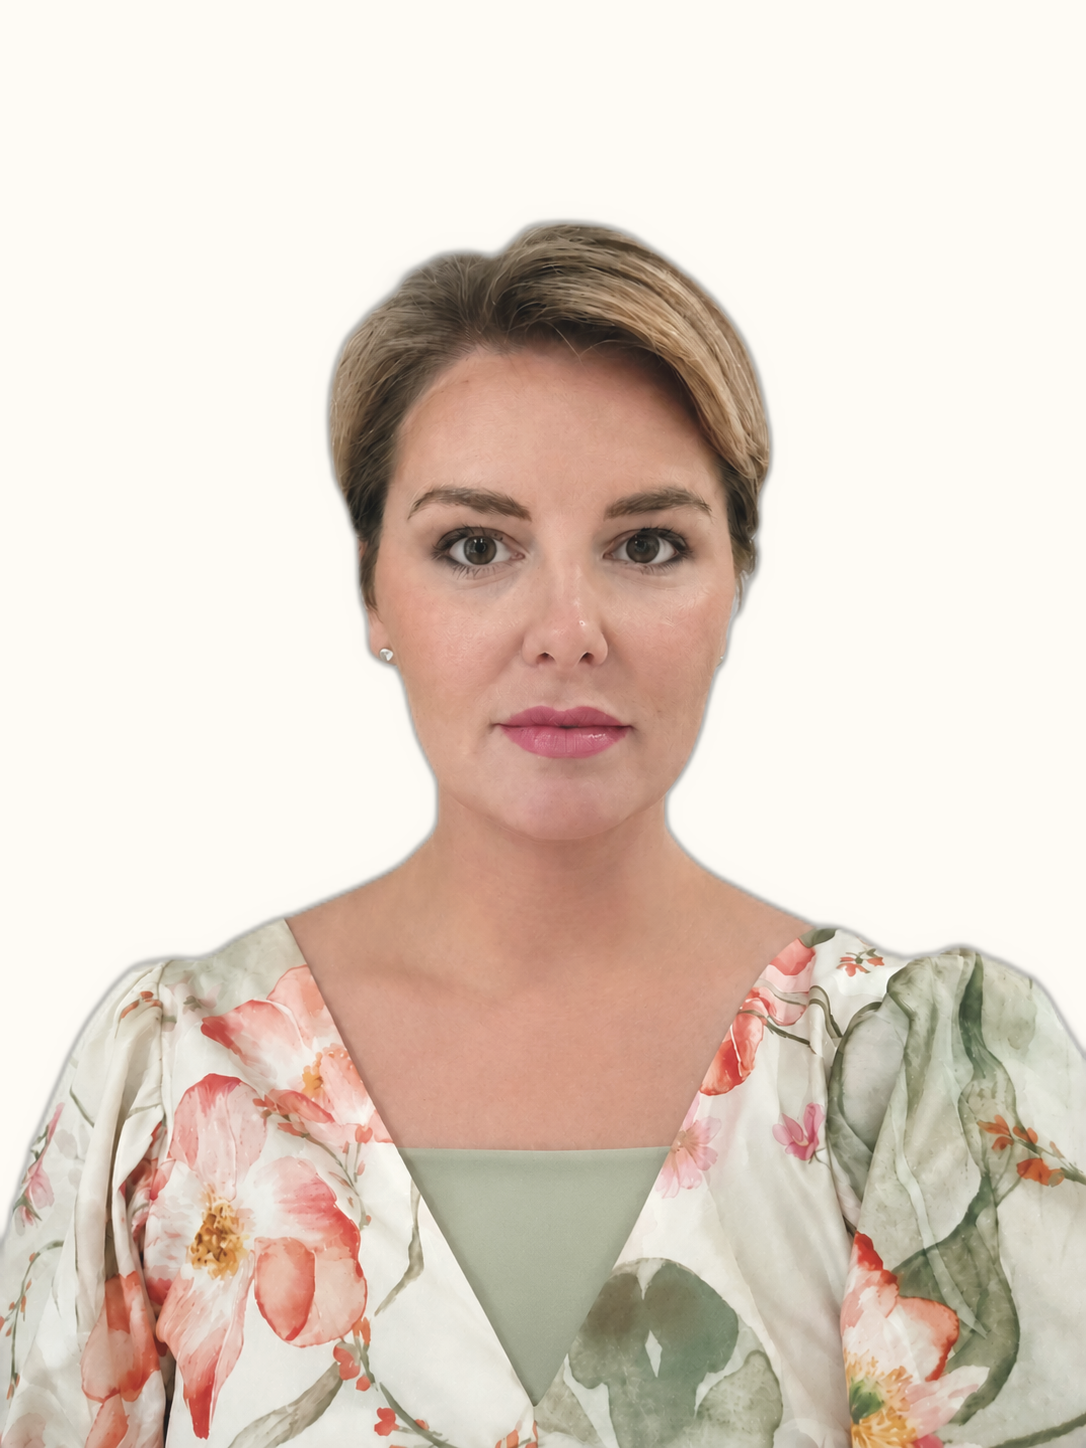
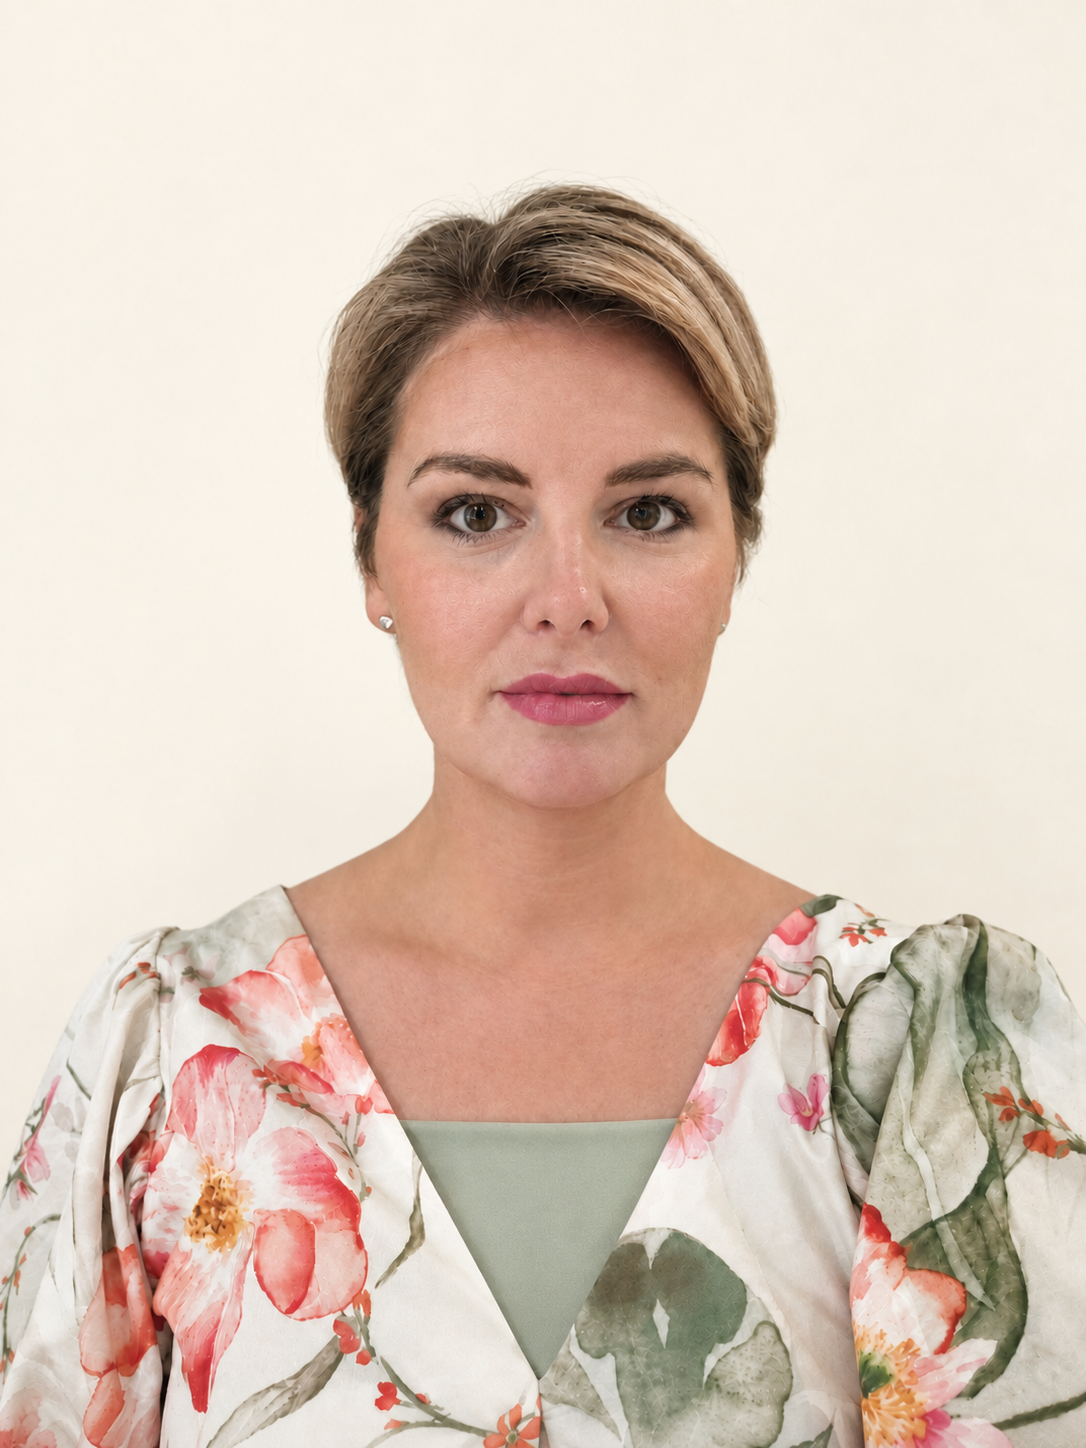
Add footer flower arrangement; fix toolkit blur veil, yellow-flower hairline, new profile photo
- Bottom decoration: forget-me-not lying sideways at the left, four blooms
  overlapping in a cluster at the right, replacing the pansy that was being
  sliced by the page edge. Extra content-pad bottom padding gives them canvas
  so they clear the footer text instead of covering it.
- content-pad gets zIndex 3: the hero's bottom blobs are zIndex 2 and extend
  past the hero by design, so they were painting their blur over the toolkit
  badges.
- flower-yellow.png carried a 2px full-height alpha strip at its left edge,
  which rotated into a diagonal hairline above the bloom. Stripped to the
  single largest connected component.
- New profile photo ships with its own cream background, superseding the
  composited veil; cache-buster bumped to v=9.

Claude-Session: https://claude.ai/code/session_01WvQFioFd8AdRyknNyCBVYC

Changed region(s): [[0.0, 0.1243, 1.0, 1.0], [0.395, 0.6526, 0.4254, 0.6837]]

diff --git a/index.html b/index.html
@@ -61,7 +61,15 @@
   }
   .hero-flower-yellow { animation: flowerSwayYellow 13s ease-in-out infinite; transform-origin: 50% 85%; }
   .hero-flower-pansy { animation: flowerSwayPansy 22s ease-in-out infinite; transform-origin: 50% 85%; }
-  .footer-flower { animation: flowerSwayFooter 24s ease-in-out infinite; transform-origin: 50% 85%; }
+  /* Shared gentle drift for the bottom blooms. Rotation is held constant via
+     --rot so only translateX animates — rotating a large shape about a near-end
+     pivot swings its far tip through an arc that reads as vertical bobbing. */
+  @keyframes bloomSway {
+    0%   { transform: translateX(-9px) rotate(var(--rot,0deg)); }
+    50%  { transform: translateX(9px) rotate(var(--rot,0deg)); }
+    100% { transform: translateX(-9px) rotate(var(--rot,0deg)); }
+  }
+  .footer-bloom { animation: bloomSway var(--dur,22s) ease-in-out infinite; transform-origin: 50% 85%; }
 
   /* Individual dandelion seeds drift independently — direction/duration set per-seed via CSS vars */
   @keyframes seedFloat {
@@ -101,7 +109,7 @@
 
   /* Mobile responsive */
   .hero-pad { /* padding moved to .hero-screen so screens can slide */ }
-  .content-pad { padding: 48px 64px 96px; }
+  .content-pad { padding: 48px 64px 250px; }
   .hero-grid {
     display: grid;
     grid-template-columns: minmax(360px, 540px) 200px minmax(360px, 1fr);
@@ -134,7 +142,7 @@
     .grid-4 { grid-template-columns: repeat(2, 1fr); }
   }
   @media (max-width: 720px) {
-    .content-pad { padding: 40px 20px 64px; }
+    .content-pad { padding: 40px 20px 150px; }
     .hero-grid { grid-template-columns: 1fr; gap: 24px; }
     .hero-photo { width: 140px !important; height: 168px !important; }
     .name-h1 { font-size: 44px !important; }
@@ -145,7 +153,9 @@
     .hero-flower-yellow { width: 130px !important; }
     .hero-flower-pansy { width: 110px !important; }
     .hero-flower-dandelion { transform: rotate(90deg) scale(0.55) !important; }
-    .footer-flower { width: 180px !important; left: -30px !important; bottom: -30px !important; }
+    .footer-cluster { width: 320px !important; right: -50px !important; bottom: -40px !important; }
+    .footer-cluster .footer-bloom { width: 150px !important; }
+    .footer-bloom { width: 180px !important; }
   }
   @media (max-width: 480px) {
     .grid-4 { grid-template-columns: 1fr; }
@@ -336,7 +346,7 @@ function tagColor(tag){
 const DEFAULT_BIO = {
   name:"Leena Markiet", role:"Service Designer & UX/UI",
   location:"Abu Dhabi, United Arab Emirates",
-  email:"leena@markiet.studo", photoUrl:"https://raw.githubusercontent.com/leenamarkiet-stack/portfolio/main/leena-profile-photo.png?v=8",
+  email:"leena@markiet.studo", photoUrl:"https://raw.githubusercontent.com/leenamarkiet-stack/portfolio/main/leena-profile-photo.png?v=9",
   status:"Available for projects, summer 2026",
   paragraph:"I am a Service Designer and Senior UX/UI Designer with experience designing complex enterprise and government software products, digital services, and customer experiences. My background combines service design, UX, business analysis, and stakeholder facilitation, enabling me to bridge business strategy, technical implementation, and user needs throughout the product lifecycle.\n\nI specialize in transforming complex business challenges into intuitive, scalable digital solutions. By combining systems thinking with user-centred design, I consider the broader service ecosystem—including users, workflows, business objectives, and technical constraints—to create experiences that are both highly usable and aligned with organizational goals.",
   socials:[{label:"LinkedIn",url:"#"},{label:"Read.cv",url:"#"}],
@@ -885,7 +895,7 @@ function Portfolio() {
       </div>
 
       {/* CONTENT */}
-      <div className="content-pad" style={{position:'relative',overflow:'hidden'}}>
+      <div className="content-pad" style={{position:'relative',zIndex:3,overflow:'hidden'}}>
         <section style={{marginBottom:64}}>
           <SectionLabel title="Toolkit"/>
           <div style={{display:'flex',flexWrap:'wrap',gap:8}}>
@@ -902,11 +912,31 @@ function Portfolio() {
 
         {/* Placed before the cards (and z-index:0) so it paints BEHIND the project grid,
             peeking up from the bottom-left corner. */}
-        <img aria-hidden src="https://raw.githubusercontent.com/leenamarkiet-stack/portfolio/main/flower-pansy.png" alt=""
-          className="footer-flower"
-          style={{position:'absolute',bottom:90,left:-120,width:420,height:'auto',
-            pointerEvents:'none',opacity:0.85,zIndex:0,
+        {/* Bottom decoration. Painted before the cards at zIndex 0 so the blooms
+            sit behind the grid. The forget-me-not lies sideways at the left
+            (rotated 90deg, stem trailing off-canvas); the other four overlap in
+            a cluster at the right, largest behind. */}
+        <img aria-hidden src="https://raw.githubusercontent.com/leenamarkiet-stack/portfolio/main/flower-forgetmenot.png" alt="" className="footer-bloom"
+          style={{position:'absolute',bottom:30,left:-150,width:235,height:'auto',
+            '--rot':'90deg','--dur':'26s',pointerEvents:'none',opacity:0.9,zIndex:0,
             filter:'drop-shadow(0 10px 20px rgba(31,26,20,0.12))'}}/>
+
+        <div aria-hidden className="footer-cluster"
+          style={{position:'absolute',right:-30,bottom:34,width:470,height:270,
+            pointerEvents:'none',zIndex:0}}>
+          <img aria-hidden src="https://raw.githubusercontent.com/leenamarkiet-stack/portfolio/main/flower-poppy.png" alt="" className="footer-bloom"
+            style={{position:'absolute',right:-10,bottom:10,width:245,height:'auto',
+              '--rot':'-8deg','--dur':'21s',opacity:0.90,filter:'drop-shadow(0 10px 20px rgba(31,26,20,0.12))'}}/>
+          <img aria-hidden src="https://raw.githubusercontent.com/leenamarkiet-stack/portfolio/main/flower-blush.png" alt="" className="footer-bloom"
+            style={{position:'absolute',right:150,bottom:-18,width:212,height:'auto',
+              '--rot':'6deg','--dur':'24s',opacity:0.92,filter:'drop-shadow(0 10px 20px rgba(31,26,20,0.12))'}}/>
+          <img aria-hidden src="https://raw.githubusercontent.com/leenamarkiet-stack/portfolio/main/flower-anemone.png" alt="" className="footer-bloom"
+            style={{position:'absolute',right:268,bottom:28,width:175,height:'auto',
+              '--rot':'10deg','--dur':'23s',opacity:0.88,filter:'drop-shadow(0 10px 20px rgba(31,26,20,0.12))'}}/>
+          <img aria-hidden src="https://raw.githubusercontent.com/leenamarkiet-stack/portfolio/main/flower-pink.png" alt="" className="footer-bloom"
+            style={{position:'absolute',right:58,bottom:-40,width:196,height:'auto',
+              '--rot':'-4deg','--dur':'19s',opacity:0.95,filter:'drop-shadow(0 10px 20px rgba(31,26,20,0.12))'}}/>
+        </div>
 
         <section style={{position:'relative',zIndex:1}}>
           <SectionLabel title="Selected work"/>

diff --git a/admin.html b/admin.html
@@ -374,7 +374,7 @@ const DEFAULT_DATA = {
     role: "Service Designer & UX/UI",
     location: "Abu Dhabi, United Arab Emirates",
     email: "leena@markiet.studo",
-    photoUrl: "https://raw.githubusercontent.com/leenamarkiet-stack/portfolio/main/leena-profile-photo.png?v=8",
+    photoUrl: "https://raw.githubusercontent.com/leenamarkiet-stack/portfolio/main/leena-profile-photo.png?v=9",
     status: "Available for projects, summer 2026",
     paragraph: "I am a Service Designer and Senior UX/UI Designer with experience designing complex enterprise and government software products, digital services, and customer experiences. My background combines service design, UX, business analysis, and stakeholder facilitation, enabling me to bridge business strategy, technical implementation, and user needs throughout the product lifecycle.\n\nI specialize in transforming complex business challenges into intuitive, scalable digital solutions. By combining systems thinking with user-centred design, I consider the broader service ecosystem—including users, workflows, business objectives, and technical constraints—to create experiences that are both highly usable and aligned with organizational goals.",
     socials: [
